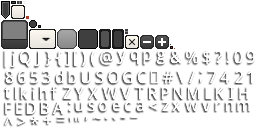
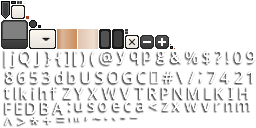
Add style to scroll bars. Also, make scroll bars always visible.

Changed region(s): [[0.2188, 0.2188, 0.4062, 0.4062]]

diff --git a/core/src/main/java/tech/octopusdragon/checkers/view/widget/CustomScrollPane.java b/core/src/main/java/tech/octopusdragon/checkers/view/widget/CustomScrollPane.java
@@ -12,6 +12,8 @@ import com.badlogic.gdx.scenes.scene2d.ui.Skin;
 public class CustomScrollPane extends ScrollPane {
     public CustomScrollPane(Actor actor, Skin skin) {
         super(actor, skin);
+        setScrollbarsVisible(true);
+        setFadeScrollBars(false);
         addListener(new InputListener() {
             public void enter(InputEvent event, float x, float y, int pointer, Actor fromActor) {
                 getStage().setScrollFocus(CustomScrollPane.this);
